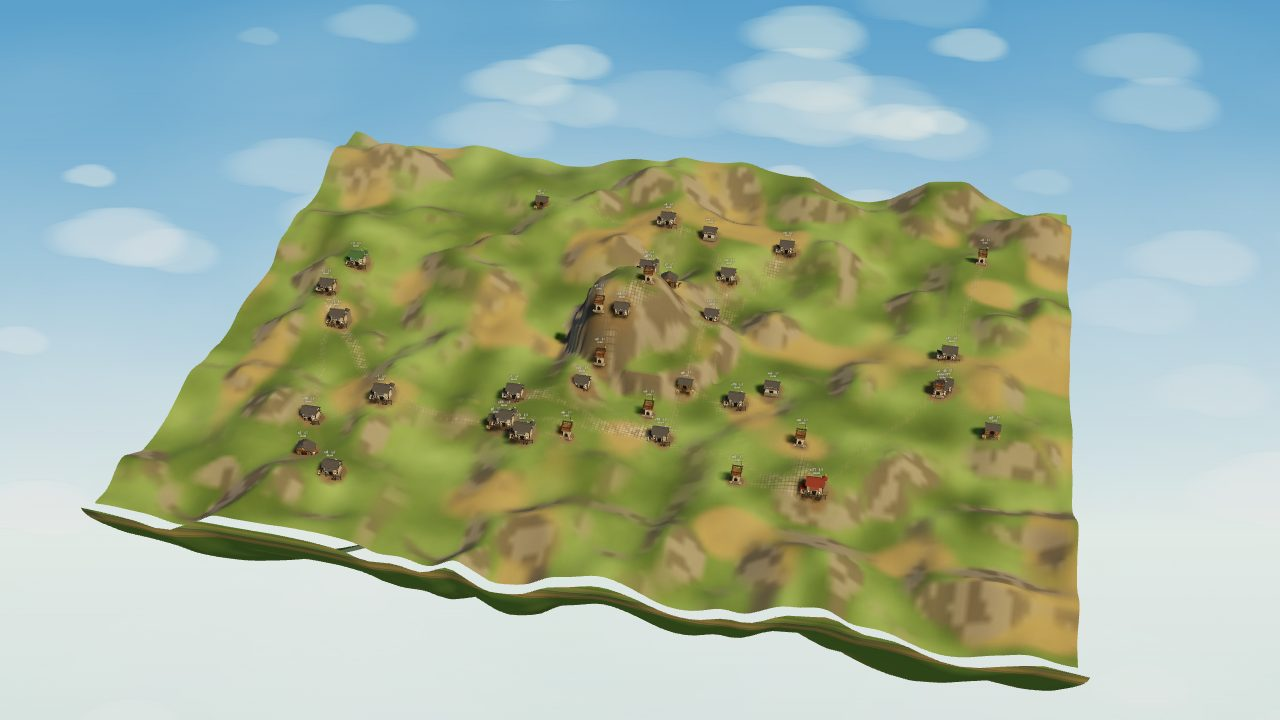
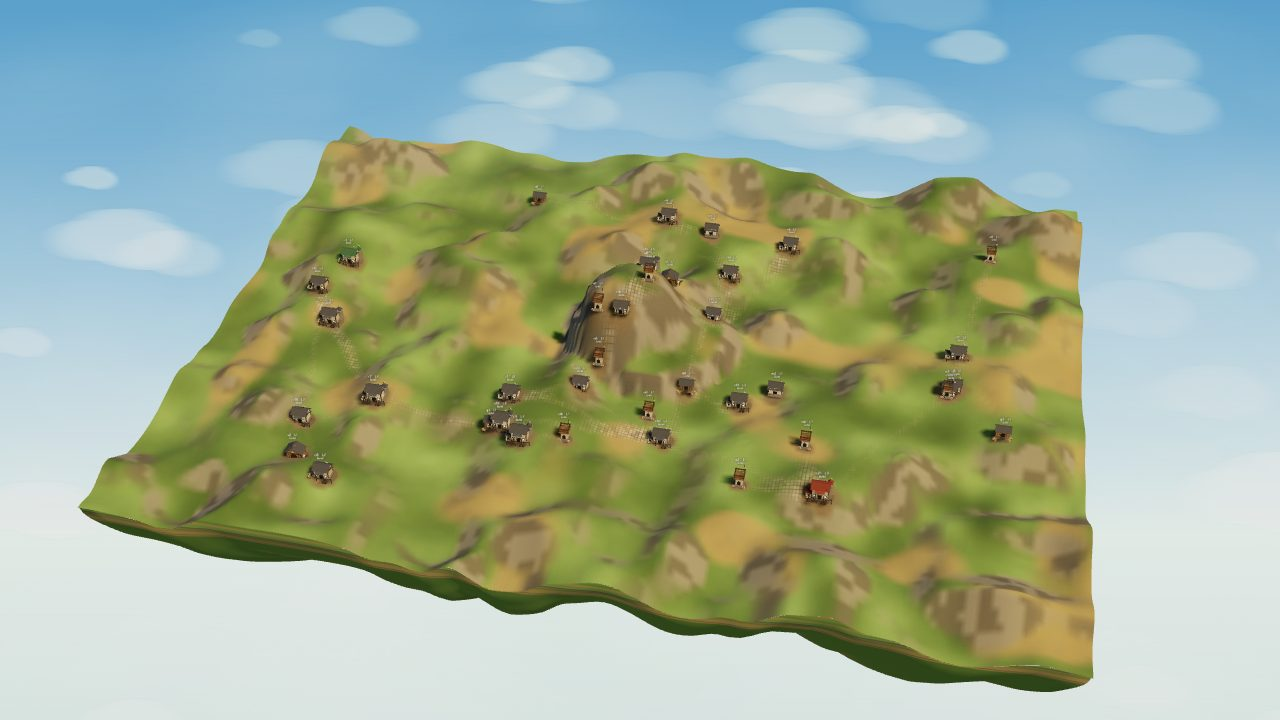
修掉地形与岛体之间的白边

diff --git a/apps/client/src/game/terrain.ts b/apps/client/src/game/terrain.ts
@@ -909,11 +909,12 @@ function islandRim(
     let bermNoise = 0.58;
     let depthScale = 0.82 + valueNoise(cos * 1.6 + shift, sin * 1.6, seed + 307) * 0.34;
     if (shape === "plateau") {
-      // 台地地基铺满整张图，边缘只留一圈很窄的收边。
-      base = support + 1.6;
-      radiusScale = 1 + fine * 0.015;
-      bermBase = 0.05;
-      bermNoise = 0.1;
+      // 台地地基铺满整张图：侧壁顶端必须和地形边缘完全重合，
+      // 否则两者之间会露出一道缝，从固定的预览机位看就是一条白边。
+      base = support;
+      radiusScale = 1;
+      bermBase = 0.02;
+      bermNoise = 0.04;
       depthScale = 1;
     } else if (shape === "mesa") {
       base = support + 4 + broad * 2.2;
